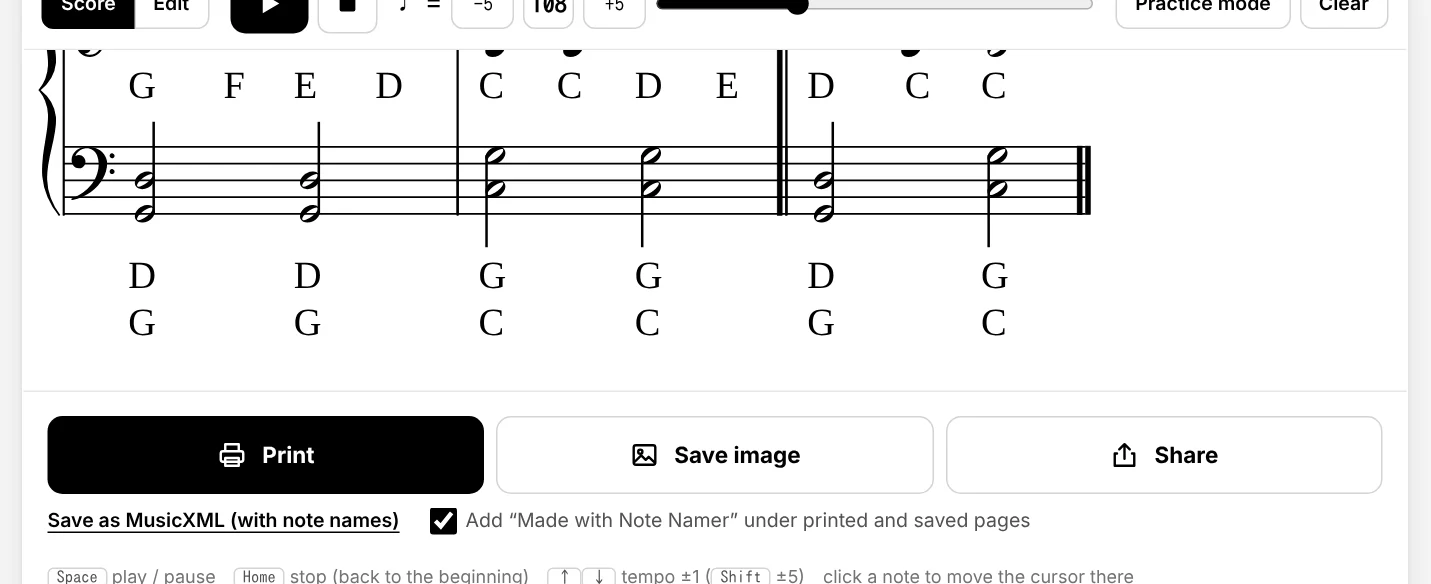
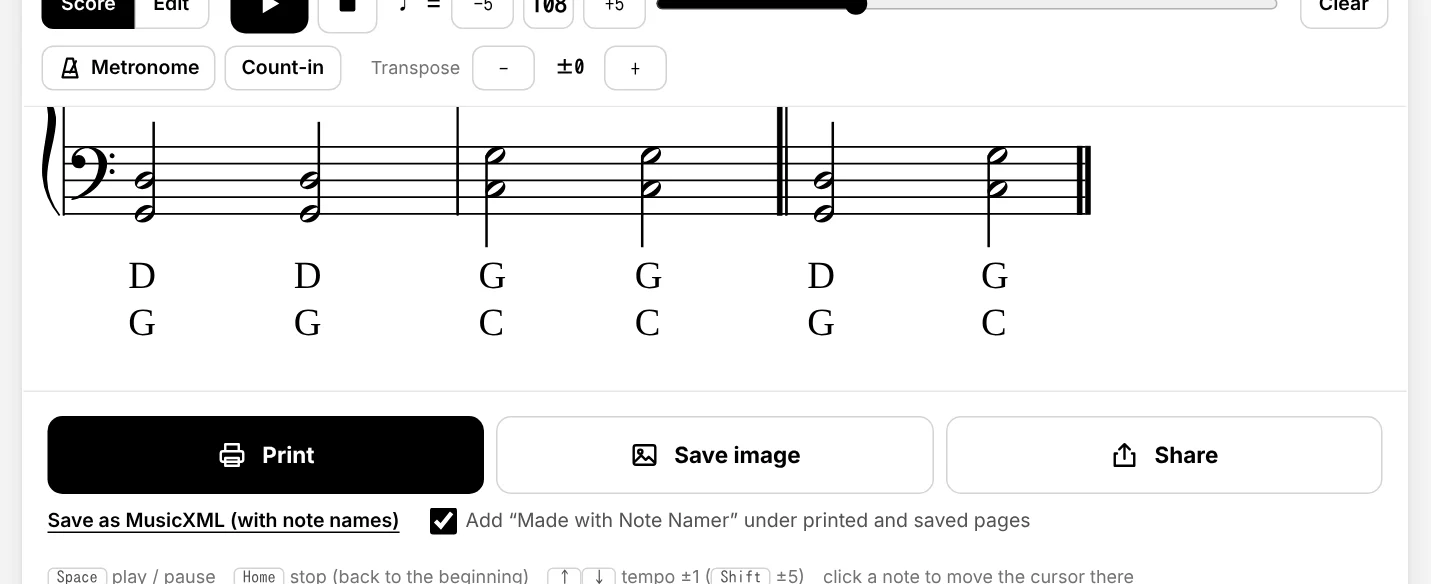
クリアを再生の段の右端に、練習モードをなくしてメトロノーム・カウントイン・移調を常に表示 (#9)
* baseline-status: Cloudflare の GitHub App の許可と Route を確認済みに（Route は Worker の Domains タブ）

Claude-Session: https://claude.ai/code/session_01FBcjAh2EZdUZUo7wvrFp9K

* baseline-status: 自動デプロイと本番の表示を確認済みに

Claude-Session: https://claude.ai/code/session_01FBcjAh2EZdUZUo7wvrFp9K

* スマホの印刷: フッターだけのページが出ないよう、ページを印刷できる範囲に収める。自動印刷の確認が出るときは、もう一度押してもらう

- iOS の Safari は @page の margin: 0 を使わずプリンタの余白を残すので、210×297mm の箱が収まらず、
  下端のタイトル・ページ番号の行が次のページにはみ出していたと考えられる（WebKit がないため未再現）。
  ページの SVG を幅 100% と 100vh の小さいほうに合わせ、縦横比を A4 に保つ
- ページを作るあいだにタップの有効期限が切れると、Safari が「自動的に印刷されることを許可しますか」と
  聞く。期限が切れていたら（navigator.userActivation）印刷せず「もう一度「印刷」を押して」と出し、
  作ったページを使って 2 回目ですぐ印刷する（共有・画像の保存と同じ）

Claude-Session: https://claude.ai/code/session_01FBcjAh2EZdUZUo7wvrFp9K

* iPhone の印刷: 2 回目のタップでも自動印刷の確認が出ていたので、作ったページは await を挟まずにすぐ印刷する

Safari は print() がタップの処理の中から直接（await を挟まずに）呼ばれないと、
「自動的に印刷されることを許可しますか」と聞く。#3 では 2 回目も withPages の await の後で呼んでいた。
- 作ったページがあり、編集中の変更がなければ、クリックの処理の中ですぐ印刷する
- Safari（iOS のブラウザはすべて WebKit）では、1 回目はページを作って「もう一度押して」と出すだけにする。
  ほかのブラウザは今までどおり 1 回で印刷（タップの期限が切れていたときだけ 2 回）

Claude-Session: https://claude.ai/code/session_01FBcjAh2EZdUZUo7wvrFp9K

* iPhone の印刷: 「もう一度押して」をやめ、1 回で印刷する（自動印刷の確認は「許可」で進める）

#4 の 2 回押してもらう方式は、実機の Safari では 2 回目でも「このウェブサイトから自動的に印刷する
ことは禁止されています」が出て効かなかった。「許可」を押せば印刷できるので、確認は受け入れ、
どのブラウザでも 1 回で印刷するように戻す。作ったページがあるときは await を挟まずに印刷する部分は残す。
baseline-status の 9-6 を今の状態に直した（上のメニューの記述も消した）。
[…]

diff --git a/public/notenamer/ja/index.html b/public/notenamer/ja/index.html
@@ -208,8 +208,10 @@
     .bpm-input::-webkit-outer-spin-button, .bpm-input::-webkit-inner-spin-button { -webkit-appearance: none; margin: 0; }
     .bpm-input:focus { outline: none; border-color: var(--ink); }
     .tempo input[type=range] { flex: 1; min-width: 80px; }
-    .player-sub .end { display: flex; flex-wrap: wrap; gap: 6px; margin-left: auto; }
-    .practice { display: flex; flex-wrap: wrap; gap: 10px 20px; align-items: center; padding: 10px 12px; border-bottom: 1px solid var(--line); background: var(--paper); }
+    /* Clear: at the right end of the play row. On wide screens the bar is one flex row (.player and .player-sub
+       have no box), so order puts it after the tempo, with the metronome / count-in / transpose row below */
+    .clear-btn { margin-left: auto; order: 1; }
+    .practice { display: flex; flex-wrap: wrap; gap: 6px 20px; align-items: center; flex-basis: 100%; order: 2; }
     .practice .grp { display: flex; flex-wrap: wrap; gap: 4px 6px; align-items: center; }
     .practice .lbl { font-size: 12px; color: var(--subtle); margin-right: 2px; }
     .practice .chip { height: 30px; padding: 0 10px; }
@@ -418,6 +420,7 @@
             <button type="button" class="play" id="playBtn" aria-label="Play" disabled></button>
             <button type="button" class="chip stop-btn" id="stopBtn" aria-label="停止（最初に戻る）" data-i18n-attr="aria-label:stop" disabled><svg viewBox="0 0 16 16" aria-hidden="true"><rect x="2" y="2" width="12" height="12" rx="1.5" fill="currentColor"></rect></svg></button>
           </div>
+          <button type="button" class="chip clear-btn" id="clearBtn" disabled data-i18n="clear">クリア</button>
         </div>
         <div class="player-sub">
           <div class="tempo">
@@ -427,13 +430,7 @@
             <button type="button" class="chip mono" data-bpm="5" aria-label="テンポを5上げる" data-i18n-attr="aria-label:bpm.p5">+5</button>
             <input id="bpmSlider" type="range" min="20" max="300" step="1" aria-label="テンポのスライダー" data-i18n-attr="aria-label:bpm.slider">
           </div>
-          <div class="end">
-            <button type="button" class="chip toggle" id="practiceBtn" aria-pressed="false" aria-controls="practice" disabled data-i18n="practice">練習モード</button>
-            <button type="button" class="chip" id="clearBtn" disabled data-i18n="clear">クリア</button>
-          </div>
-        </div>
-        </div>
-        <div class="practice" id="practice" hidden>
+          <div class="practice" id="practice">
           <div class="grp">
             <button type="button" class="chip toggle" id="metroBtn" aria-pressed="false"><svg viewBox="0 0 16 16" fill="none" stroke="currentColor" stroke-width="1.5" stroke-linecap="round" stroke-linejoin="round" aria-hidden="true"><path d="M6 1.8h4l3 12.4H3z"></path><path d="M8 11 12 3.5"></path><path d="M4.2 10.5h7.6"></path></svg><span data-i18n="metro">メトロノーム</span></button>
             <button type="button" class="chip toggle" id="countBtn" aria-pressed="false" data-i18n="countin">カウントイン</button>
@@ -443,6 +440,8 @@
             <span class="tr-val" id="trVal" aria-live="polite"></span>
             <button type="button" class="chip mono" id="trUp" aria-label="半音上げる" data-i18n-attr="aria-label:tr.up">+</button>
           </div>
+          </div>
+        </div>
         </div>
         <div class="warn" id="pageWarn" hidden></div>
         <div class="names-bar" id="namesBar" hidden>
@@ -537,7 +536,7 @@
         <li><b>音名</b> – すべての音符の下に音名を書きます。調号や臨時記号の ♯・♭ も反映します。楽譜の上で、書き方（ドレミ・C D E・Do Re Mi・도레미・ドイツ式・До Ре Ми、または移動ド・数字譜・Sa Re Ga）を選べます。和音は上の音から順に縦に並べ、タイでつながった後ろの音には書きません。</li>
         <li><b>聞いて確かめる</b> – ▶ を押すと、青いカーソルが五線の上を進みながら音が鳴ります。❚❚ で一時停止、■ で止めて最初に戻ります。音符をクリックするとカーソルがそこに移ります。テンポは −5／+5、数字、スライダーで変えられます。</li>
         <li><b>間違いを直す</b> – 「編集」に切り替えると、音符が四角で表示されます。上下にドラッグで音の高さ、左右で位置、右端をドラッグで長さを変え、空いている所をクリックで追加、右クリックで削除できます。「楽譜」に戻ると、直した内容で五線譜と音名が描き直されます。</li>
-        <li><b>練習モード</b> – メトロノームとカウントイン、半音ずつの移調ができます。音名も移調した高さで書きます。</li>
+        <li><b>メトロノーム・カウントイン・移調</b> – テンポの下のボタンで、メトロノームとカウントイン、半音ずつの移調ができます。音名も移調した高さで書きます。</li>
         <li><b>印刷・保存・共有</b> – 楽譜の下の「印刷」（A4 のページ）、「画像を保存」（ページごとの PNG）、「共有」（スマホの共有メニューで画像を送る）。音名入りの MusicXML も保存できます。各ページの下には小さく「Note Namer で作成」と入ります（同じ場所のチェックで外せます）。最近開いた 10 曲は「最近の楽譜」に残ります。</li></ol>
       <p class="help-more" data-i18n-html="help.more">詳しくは：<a href="/notenamer/ja/guide/" target="_blank" rel="noopener">画面つきの使い方ガイド</a>・<a href="/notenamer/ja/photo-tips/" target="_blank" rel="noopener">撮り方のコツ</a>・<a href="/notenamer/ja/fix-errors/" target="_blank" rel="noopener">読み取りミスの直し方</a>・<a href="/notenamer/ja/faq/" target="_blank" rel="noopener">よくある質問</a></p>
     </div>
@@ -612,7 +611,6 @@
           "pause": "Pause",
           "stop": "Stop (back to the beginning)",
           "metro": "Metronome",
-          "practice": "Practice mode",
           "transpose": "Transpose",
           "tr.down": "Down a semitone",
           "tr.up": "Up a semitone",
@@ -732,7 +730,7 @@
           "foot.meta": "<span>Note Namer · © 2026 ktkwmr</span>\n<a href=\"/notenamer/privacy/\" target=\"_blank\" rel=\"noopener\">Privacy policy</a>\n<a href=\"/notenamer/about/\" target=\"_blank\" rel=\"noopener\">About this site</a>\n<a href=\"https://github.com/ktkwmr/NoteNamer\" target=\"_blank\" rel=\"noopener\">Source code on GitHub</a>\n<a href=\"https://github.com/ktkwmr/NoteNamer/issues\" target=\"_blank\" rel=\"noopener\">Feedback</a>\n<a href=\"https://ktkwmr.com/\" target=\"_blank\" rel=\"noopener\">More apps by ktkwmr</a>",
           "foot.guidesTitle": "Guides",
           "foot.guides": "<li><a href=\"/notenamer/guide/\" target=\"_blank\" rel=\"noopener\">How to use Note Namer</a></li>\n<li><a href=\"/notenamer/note-name-chart/\" target=\"_blank\" rel=\"noopener\">Note name chart</a></li>\n<li><a href=\"/notenamer/reading-notes/\" target=\"_blank\" rel=\"noopener\">Reading notes on the staff</a></li>\n<li><a href=\"/notenamer/sharps-and-flats/\" target=\"_blank\" rel=\"noopener\">Sharps, flats, and key signatures</a></li>\n<li><a href=\"/notenamer/faq/\" target=\"_blank\" rel=\"noopener\">FAQ</a></li>\n<li><a href=\"/notenamer/photo-tips/\" target=\"_blank\" rel=\"noopener\">Photo tips for sheet music</a></li>\n<li><a href=\"/notenamer/fix-errors/\" target=\"_blank\" rel=\"noopener\">Fixing reading mistakes</a></li>",
-          "help.body": "<li><b>Open a score</b> – Take a photo, or choose images or PDFs (or drop them on the left panel), then press “Read the score”. Up to 12 files can be added; they are read in the listed order as one score (drag the handle to change the order). A MusicXML file opens right away. When nothing is open, a sample (Ode to Joy) is shown.</li>\n        <li><b>Wait for the reading</b> – The first time, the reading engine is downloaded (about 130 MB). Reading takes from about ten seconds to a minute per page, depending on your device.</li>\n        <li><b>Note names</b> – Every note gets its name below it, with the sharps and flats of the key signature and of the accidentals. Above the score, choose how the names are written: pitch names (ドレミ, C D E, Do Re Mi, 도레미, German, До Ре Ми) or names in the key (movable Do, 1 2 3, Sa Re Ga). Chords are named from the top note down; a note tied from the one before gets no name.</li>\n        <li><b>Listen</b> – Press ▶ to check the names by ear: a blue cursor moves along the staff. ❚❚ pauses, and ■ stops and goes back to the beginning. Click a note to move the cursor there. Change the tempo with −5 / +5, the number, or the slider.</li>\n        <li><b>Fix mistakes</b> – Switch to “Edit”. Each note is a box: drag it up or down to change the pitch, sideways to move it, drag its right edge to change the length, click an empty spot to add a note, and right-click to delete. Back in “Score”, the staff and the names are redrawn with your changes.</li>\n        <li><b>Practice mode</b> – A metronome, a count-in, and transposition by semitones. The names follow the transposition.</li>\n        <li><b>Print, save, share</b> – Under the score: Print (A4 pages), Save image (a PNG for each page), and Share (the images, through your phone's share menu). You can also save a MusicXML file with the names. A small “Made with Note Namer” line goes under each page unless you turn it off there. The last 10 scores are kept under “Recent scores”.</li>",
+          "help.body": "<li><b>Open a score</b> – Take a photo, or choose images or PDFs (or drop them on the left panel), then press “Read the score”. Up to 12 files can be added; they are read in the listed order as one score (drag the handle to change the order). A MusicXML file opens right away. When nothing is open, a sample (Ode to Joy) is shown.</li>\n        <li><b>Wait for the reading</b> – The first time, the reading engine is downloaded (about 130 MB). Reading takes from about ten seconds to a minute per page, depending on your device.</li>\n        <li><b>Note names</b> – Every note gets its name below it, with the sharps and flats of the key signature and of the accidentals. Above the score, choose how the names are written: pitch names (ドレミ, C D E, Do Re Mi, 도레미, German, До Ре Ми) or names in the key (movable Do, 1 2 3, Sa Re Ga). Chords are named from the top note down; a note tied from the one before gets no name.</li>\n        <li><b>Listen</b> – Press ▶ to check the names by ear: a blue cursor moves along the staff. ❚❚ pauses, and ■ stops and goes back to the beginning. Click a note to move the cursor there. Change the tempo with −5 / +5, the number, or the slider.</li>\n        <li><b>Fix mistakes</b> – Switch to “Edit”. Each note is a box: drag it up or down to change the pitch, sideways to move it, drag its right edge to change the length, click an empty spot to add a note, and right-click to delete. Back in “Score”, the staff and the names are redrawn with your changes.</li>\n        <li><b>Metronome, count-in, transpose</b> – The buttons under the tempo add a metronome or a count-in, and transpose by semitones. The names follow the transposition.</li>\n        <li><b>Print, save, share</b> – Under the score: Print (A4 pages), Save image (a PNG for each page), and Share (the images, through your phone's share menu). You can also save a MusicXML file with the names. A small “Made with Note Namer” line goes under each page unless you turn it off there. The last 10 scores are kept under “Recent scores”.</li>",
           "help.more": "More: <a href=\"/notenamer/guide/\" target=\"_blank\" rel=\"noopener\">guide with screenshots</a> · <a href=\"/notenamer/photo-tips/\" target=\"_blank\" rel=\"noopener\">photo tips</a> · <a href=\"/notenamer/fix-errors/\" target=\"_blank\" rel=\"noopener\">fixing mistakes</a> · <a href=\"/notenamer/faq/\" target=\"_blank\" rel=\"noopener\">FAQ</a>",
           "privacy.body": "<li><b>Your music stays on your device</b> – The photo, image, or PDF you open is read only in your browser and is never sent to a server. The photo you take with the camera is not saved. This app has no accounts, cookies, or ads.</li>\n        <li><b>Data saved in your browser</b> – Up to the last 10 scores you opened (the notes the app read, as MusicXML), with their titles, file names, tempo, and transposition, are saved in your browser's storage so you can open them again. “Clear history” removes them. The app and its reading engine are saved there too, so they work offline. You can delete them by clearing this site's data in your browser settings.</li>\n        <li><b>Server logs and page views</b> – This site is hosted on Cloudflare. Standard access logs (such as IP address, time, and the requested page or file) are kept for operation and security. Cloudflare Web Analytics counts page views without cookies (the page URL, referrer, browser information, and page load time).</li>\n        <li><b>Contact</b> – Questions and feedback: <a href=\"https://github.com/ktkwmr/NoteNamer/issues\" target=\"_blank\" rel=\"noopener\">GitHub Issues</a>.</li>\n        <li><b>Full policy</b> – See the <a href=\"/notenamer/privacy/\" target=\"_blank\" rel=\"noopener\">privacy policy</a> and <a href=\"/notenamer/about/\" target=\"_blank\" rel=\"noopener\">about this site</a>.</li>",
           "about.license": "© 2026 ktkwmr · Licensed under the <a href=\"https://github.com/ktkwmr/NoteNamer/blob/main/LICENSE\" target=\"_blank\" rel=\"noopener\">GNU AGPL v3</a> (the same as homr, the music recognition it uses) · <a href=\"/notenamer/about/\" target=\"_blank\" rel=\"noopener\">About this site</a>",
@@ -770,7 +768,6 @@
           "pause": "一時停止",
           "stop": "停止（最初に戻る）",
           "metro": "メトロノーム",
-          "practice": "練習モード",
           "transpose": "移調",
           "tr.down": "半音下げる",
           "tr.up": "半音上げる",
@@ -890,7 +887,7 @@
           "foot.meta": "<span>Note Namer · © 2026 ktkwmr</span>\n<a href=\"/notenamer/ja/privacy/\" target=\"_blank\" rel=\"noopener\">プライバシーポリシー</a>\n<a href=\"/notenamer/ja/about/\" target=\"_blank\" rel=\"noopener\">運営者情報</a>\n<a href=\"https://github.com/ktkwmr/NoteNamer\" target=\"_blank\" rel=\"noopener\">GitHub のソースコード</a>\n<a href=\"https://github.com/ktkwmr/NoteNamer/issues\" target=\"_blank\" rel=\"noopener\">ご意見・ご質問</a>\n<a href=\"https://ktkwmr.com/ja/\" target=\"_blank\" rel=\"noopener\">ktkwmr のほかのアプリ</a>",
           "foot.guidesTitle": "ガイド",
           "foot.guides": "<li><a href=\"/notenamer/ja/guide/\" target=\"_blank\" rel=\"noopener\">使い方ガイド</a></li>\n<li><a href=\"/notenamer/ja/note-name-chart/\" target=\"_blank\" rel=\"noopener\">音名の対応表</a></li>\n<li><a href=\"/notenamer/ja/reading-notes/\" target=\"_blank\" rel=\"noopener\">五線譜の音の読み方</a></li>\n<li><a href=\"/notenamer/ja/sharps-and-flats/\" target=\"_blank\" rel=\"noopener\">♯・♭と調号の読み方</a></li>\n<li><a href=\"/notenamer/ja/faq/\" target=\"_blank\" rel=\"noopener\">よくある質問</a></li>\n<li><a href=\"/notenamer/ja/photo-tips/\" target=\"_blank\" rel=\"noopener\">楽譜の撮り方のコツ</a></li>\n<li><a href=\"/notenamer/ja/fix-errors/\" target=\"_blank\" rel=\"noopener\">読み取りミスの直し方</a></li>",
-          "help.body": "<li><b>楽譜を開く</b> – 写真を撮るか、画像やPDFを選んで（左のパネルにドロップしても可）「楽譜を読み取る」を押します。ファイルは12個まで追加でき、並んだ順に1つの楽譜として読み取ります（ハンドルをドラッグすると順番を変えられます）。MusicXML はすぐに開きます。楽譜を開いていないときは、見本（歓喜の歌）を表示します。</li>\n        <li><b>読み取りを待つ</b> – 初回は読み取りエンジン（約130MB）をダウンロードします。読み取りには、端末の性能によって1ページ10秒〜1分ほどかかります。</li>\n        <li><b>音名</b> – すべての音符の下に音名を書きます。調号や臨時記号の ♯・♭ も反映します。楽譜の上で、書き方（ドレミ・C D E・Do Re Mi・도레미・ドイツ式・До Ре Ми、または移動ド・数字譜・Sa Re Ga）を選べます。和音は上の音から順に縦に並べ、タイでつながった後ろの音には書きません。</li>\n        <li><b>聞いて確かめる</b> – ▶ を押すと、青いカーソルが五線の上を進みながら音が鳴ります。❚❚ で一時停止、■ で止めて最初に戻ります。音符をクリックするとカーソルがそこに移ります。テンポは −5／+5、数字、スライダーで変えられます。</li>\n        <li><b>間違いを直す</b> – 「編集」に切り替えると、音符が四角で表示されます。上下にドラッグで音の高さ、左右で位置、右端をドラッグで長さを変え、空いている所をクリックで追加、右クリックで削除できます。「楽譜」に戻ると、直した内容で五線譜と音名が描き直されます。</li>\n        <li><b>練習モード</b> – メトロノームとカウントイン、半音ずつの移調ができます。音名も移調した高さで書きます。</li>\n        <li><b>印刷・保存・共有</b> – 楽譜の下の「印刷」（A4 のページ）、「画像を保存」（ページごとの PNG）、「共有」（スマホの共有メニューで画像を送る）。音名入りの MusicXML も保存できます。各ページの下には小さく「Note Namer で作成」と入ります（同じ場所のチェックで外せます）。最近開いた 10 曲は「最近の楽譜」に残ります。</li>",
+          "help.body": "<li><b>楽譜を開く</b> – 写真を撮るか、画像やPDFを選んで（左のパネルにドロップしても可）「楽譜を読み取る」を押します。ファイルは12個まで追加でき、並んだ順に1つの楽譜として読み取ります（ハンドルをドラッグすると順番を変えられます）。MusicXML はすぐに開きます。楽譜を開いていないときは、見本（歓喜の歌）を表示します。</li>\n        <li><b>読み取りを待つ</b> – 初回は読み取りエンジン（約130MB）をダウンロードします。読み取りには、端末の性能によって1ページ10秒〜1分ほどかかります。</li>\n        <li><b>音名</b> – すべての音符の下に音名を書きます。調号や臨時記号の ♯・♭ も反映します。楽譜の上で、書き方（ドレミ・C D E・Do Re Mi・도레미・ドイツ式・До Ре Ми、または移動ド・数字譜・Sa Re Ga）を選べます。和音は上の音から順に縦に並べ、タイでつながった後ろの音には書きません。</li>\n        <li><b>聞いて確かめる</b> – ▶ を押すと、青いカーソルが五線の上を進みながら音が鳴ります。❚❚ で一時停止、■ で止めて最初に戻ります。音符をクリックするとカーソルがそこに移ります。テンポは −5／+5、数字、スライダーで変えられます。</li>\n        <li><b>間違いを直す</b> – 「編集」に切り替えると、音符が四角で表示されます。上下にドラッグで音の高さ、左右で位置、右端をドラッグで長さを変え、空いている所をクリックで追加、右クリックで削除できます。「楽譜」に戻ると、直した内容で五線譜と音名が描き直されます。</li>\n        <li><b>メトロノーム・カウントイン・移調</b> – テンポの下のボタンで、メトロノームとカウントイン、半音ずつの移調ができます。音名も移調した高さで書きます。</li>\n        <li><b>印刷・保存・共有</b> – 楽譜の下の「印刷」（A4 のページ）、「画像を保存」（ページごとの PNG）、「共有」（スマホの共有メニューで画像を送る）。音名入りの MusicXML も保存できます。各ページの下には小さく「Note Namer で作成」と入ります（同じ場所のチェックで外せます）。最近開いた 10 曲は「最近の楽譜」に残ります。</li>",
           "help.more": "詳しくは：<a href=\"/notenamer/ja/guide/\" target=\"_blank\" rel=\"noopener\">画面つきの使い方ガイド</a>・<a href=\"/notenamer/ja/photo-tips/\" target=\"_blank\" rel=\"noopener\">撮り方のコツ</a>・<a href=\"/notenamer/ja/fix-errors/\" target=\"_blank\" rel=\"noopener\">読み取りミスの直し方</a>・<a href=\"/notenamer/ja/faq/\" target=\"_blank\" rel=\"noopener\">よくある質問</a>",
           "privacy.body": "<li><b>楽譜は端末の外に出ません</b> – 開いた写真・画像・PDFは、ブラウザの中だけで読み取り、サーバーに送ることはありません。カメラで撮った写真も保存しません。アカウント登録・Cookie・広告はありません。</li>\n        <li><b>ブラウザに保存するデータ</b> – もう一度開けるよう、最近開いた楽譜（読み取った音符のMusicXML）を最大10曲まで、タイトル・ファイル名・テンポ・移調の設定と一緒にブラウザ内に保存します。「履歴を消去」で消せます。オフラインで使えるよう、アプリ本体と読み取りエンジンも保存します。ブラウザの設定でこのサイトのデータを削除すると消えます。</li>\n        <li><b>サーバーのログと閲覧数</b> – 本サイトは Cloudflare で配信しています。運用とセキュリティのため、一般的なアクセスログ（IP アドレス・日時・アクセスしたページやファイルなど）が記録されます。Cloudflare Web Analytics で、Cookie を使わずにページの閲覧数（ページの URL・参照元・ブラウザの情報・表示速度）を集計しています。</li>\n        <li><b>お問い合わせ</b> – ご質問・ご意見は <a href=\"https://github.com/ktkwmr/NoteNamer/issues\" target=\"_blank\" rel=\"noopener\">GitHub の Issues</a> へ。</li>\n        <li><b>詳しくは</b> – <a href=\"/notenamer/ja/privacy/\" target=\"_blank\" rel=\"noopener\">プライバシーポリシー</a>と<a href=\"/notenamer/ja/about/\" target=\"_blank\" rel=\"noopener\">運営者情報</a>をご覧ください。</li>",
           "about.license": "© 2026 ktkwmr · <a href=\"https://github.com/ktkwmr/NoteNamer/blob/main/LICENSE\" target=\"_blank\" rel=\"noopener\">GNU AGPL v3</a>（使用している楽譜認識 homr と同じライセンス）· <a href=\"/notenamer/ja/about/\" target=\"_blank\" rel=\"noopener\">運営者情報</a>",
@@ -2161,7 +2158,7 @@
             const E = await importApp("editor.mjs");
             // The editor shows and plays the notes transposed (the model keeps them as written).
             // Taps on the player keep a selected measure (Play starts from it)
-            editor = E.createEditor($("editWrap"), { model: model, t: t, trackName: trackName, preview: preview, onChange: onModelChange, transpose: state.transpose || 0, keepSelectionIn: "#playerBar, #practice" });
+            editor = E.createEditor($("editWrap"), { model: model, t: t, trackName: trackName, preview: preview, onChange: onModelChange, transpose: state.transpose || 0, keepSelectionIn: "#playerBar" });
           } else editor.setTranspose(state.transpose || 0);
           editor.focus();
         } else {
@@ -2297,7 +2294,6 @@
         $("playBtn").disabled = !ready || busy; $("stopBtn").disabled = !ready || busy;
         $("clearBtn").disabled = !state.xml || !!state.sample || busy;
         ["actPrint", "actPng", "actShare", "actXml"].forEach((id) => { $(id).disabled = !state.xml || busy; });
-        $("practiceBtn").disabled = !state.xml;
         $("modeEdit").disabled = !state.xml || busy || !timeline.events.length;
         $("modeScore").setAttribute("aria-pressed", mode === "score"); $("modeEdit").setAttribute("aria-pressed", mode === "edit");
         $("playBtn").innerHTML = playing ? ICON_PAUSE : ICON_PLAY;
@@ -2327,10 +2323,6 @@
       $("stopBtn").onclick = stopToStart;
       $("metroBtn").onclick = () => { metronome = !metronome; renderPlayer(); };
       $("countBtn").onclick = () => { countIn = !countIn; renderPlayer(); };
-      $("practiceBtn").onclick = function () {
-        const open = $("practice").hidden;
-        $("practice").hidden = !open; this.setAttribute("aria-pressed", open);
-      };
       document.querySelectorAll("[data-bpm]").forEach((b) => { b.onclick = () => setBpm(state.bpm + +b.dataset.bpm); });
       $("bpmSlider").oninput = (e) => setBpm(+e.target.value);
       $("bpmInput").onchange = (e) => { const v = +e.target.value; if (v) setBpm(v); else renderTempo(); };

diff --git a/public/notenamer/index.html b/public/notenamer/index.html
@@ -206,8 +206,10 @@
     .bpm-input::-webkit-outer-spin-button, .bpm-input::-webkit-inner-spin-button { -webkit-appearance: none; margin: 0; }
     .bpm-input:focus { outline: none; border-color: var(--ink); }
     .tempo input[type=range] { flex: 1; min-width: 80px; }
-    .player-sub .end { display: flex; flex-wrap: wrap; gap: 6px; margin-left: auto; }
-    .practice { display: flex; flex-wrap: wrap; gap: 10px 20px; align-items: center; padding: 10px 12px; border-bottom: 1px solid var(--line); background: var(--paper); }
+    /* Clear: at the right end of the play row. On wide screens the bar is one flex row (.player and .player-sub
+       have no box), so order puts it after the tempo, with the metronome / count-in / transpose row below */
+    .clear-btn { margin-left: auto; order: 1; }
+    .practice { display: flex; flex-wrap: wrap; gap: 6px 20px; align-items: center; flex-basis: 100%; order: 2; }
     .practice .grp { display: flex; flex-wrap: wrap; gap: 4px 6px; align-items: center; }
     .practice .lbl { font-size: 12px; color: var(--subtle); margin-right: 2px; }
     .practice .chip { height: 30px; padding: 0 10px; }
@@ -418,6 +420,7 @@
             <button type="button" class="play" id="playBtn" aria-label="Play" disabled></button>
             <button type="button" class="chip stop-btn" id="stopBtn" aria-label="Stop" data-i18n-attr="aria-label:stop" disabled><svg viewBox="0 0 16 16" aria-hidden="true"><rect x="2" y="2" width="12" height="12" rx="1.5" fill="currentColor"></rect></svg></button>
           </div>
+          <button type="button" class="chip clear-btn" id="clearBtn" disabled data-i18n="clear">Clear</button>
         </div>
         <div class="player-sub">
           <div class="tempo">
@@ -427,13 +430,7 @@
             <button type="button" class="chip mono" data-bpm="5" aria-label="Tempo +5" data-i18n-attr="aria-label:bpm.p5">+5</button>
             <input id="bpmSlider" type="range" min="20" max="300" step="1" aria-label="Tempo slider" data-i18n-attr="aria-label:bpm.slider">
           </div>
-          <div class="end">
-            <button type="button" class="chip toggle" id="practiceBtn" aria-pressed="false" aria-controls="practice" disabled data-i18n="practice">Practice mode</button>
-            <button type="button" class="chip" id="clearBtn" disabled data-i18n="clear">Clear</button>
-          </div>
-        </div>
-        </div>
-        <div class="practice" id="practice" hidden>
+          <div class="practice" id="practice">
           <div class="grp">
             <button type="button" class="chip toggle" id="metroBtn" aria-pressed="false"><svg viewBox="0 0 16 16" fill="none" stroke="currentColor" stroke-width="1.5" stroke-linecap="round" stroke-linejoin="round" aria-hidden="true"><path d="M6 1.8h4l3 12.4H3z"></path><path d="M8 11 12 3.5"></path><path d="M4.2 10.5h7.6"></path></svg><span data-i18n="metro">Metronome</span></button>
             <button type="button" class="chip toggle" id="countBtn" aria-pressed="false" data-i18n="countin">Count-in</button>
@@ -443,6 +440,8 @@
             <span class="tr-val" id="trVal" aria-live="polite"></span>
             <button type="button" class="chip mono" id="trUp" aria-label="Up a semitone" data-i18n-attr="aria-label:tr.up">+</button>
           </div>
+          </div>
+        </div>
         </div>
         <div class="warn" id="pageWarn" hidden></div>
         <div class="names-bar" id="namesBar" hidden>
@@ -542,7 +541,7 @@
         <li><b>Play</b> – Press ▶. A blue cursor moves along the staff with the music; ❚❚ pauses, and ■ stops and goes back to the beginning. Click a note to move the cursor there; playing starts from it.</li>
         <li><b>Tempo</b> – The tempo starts at the marking found on the page (♩ = 120 when there is none). Change it with −5 / +5, the number, or the slider, even while playing.</li>
         <li><b>Fix mistakes</b> – Switch to “Edit”. Each note is a box: drag it up or down to change the pitch, sideways to move it, drag its right edge to change the length, click an empty spot to add a note, and right-click to delete. Click a measure number to add or delete measures. Back in “Score”, the staff is redrawn with your changes.</li>
-        <li><b>Practice mode</b> – Add a metronome or a count-in, and transpose by semitones.</li>
+        <li><b>Metronome, count-in, transpose</b> – The buttons under the tempo add a metronome or a count-in, and transpose by semitones. The names follow the transposition.</li>
         <li><b>Print, save, share</b> – Under the score: Print (A4 pages), Save image (a PNG for each page), and Share (the images, through your phone's share menu). You can also save a MusicXML file with the names. A small “Made with Note Namer” line goes under each page unless you turn it off there. The last 10 scores are kept under “Recent scores”.</li>
       </ol>
       <p class="help-more" data-i18n-html="help.more">More: <a href="/notenamer/guide/" target="_blank" rel="noopener">guide with screenshots</a> · <a href="/notenamer/photo-tips/" target="_blank" rel="noopener">photo tips</a> · <a href="/notenamer/fix-errors/" target="_blank" rel="noopener">fixing mistakes</a> · <a href="/notenamer/faq/" target="_blank" rel="noopener">FAQ</a></p>
@@ -620,7 +619,6 @@
           "pause": "Pause",
           "stop": "Stop (back to the beginning)",
           "metro": "Metronome",
-          "practice": "Practice mode",
           "transpose": "Transpose",
           "tr.down": "Down a semitone",
           "tr.up": "Up a semitone",
@@ -740,7 +738,7 @@
           "foot.meta": "<span>Note Namer · © 2026 ktkwmr</span>\n<a href=\"/notenamer/privacy/\" target=\"_blank\" rel=\"noopener\">Privacy policy</a>\n<a href=\"/notenamer/about/\" target=\"_blank\" rel=\"noopener\">About this site</a>\n<a href=\"https://github.com/ktkwmr/NoteNamer\" target=\"_blank\" rel=\"noopener\">Source code on GitHub</a>\n<a href=\"https://github.com/ktkwmr/NoteNamer/issues\" target=\"_blank\" rel=\"noopener\">Feedback</a>\n<a href=\"https://ktkwmr.com/\" target=\"_blank\" rel=\"noopener\">More apps by ktkwmr</a>",
           "foot.guidesTitle": "Guides",
           "foot.guides": "<li><a href=\"/notenamer/guide/\" target=\"_blank\" rel=\"noopener\">How to use Note Namer</a></li>\n<li><a href=\"/notenamer/note-name-chart/\" target=\"_blank\" rel=\"noopener\">Note name chart</a></li>\n<li><a href=\"/notenamer/reading-notes/\" target=\"_blank\" rel=\"noopener\">Reading notes on the staff</a></li>\n<li><a href=\"/notenamer/sharps-and-flats/\" target=\"_blank\" rel=\"noopener\">Sharps, flats, and key signatures</a></li>\n<li><a href=\"/notenamer/faq/\" target=\"_blank\" rel=\"noopener\">FAQ</a></li>\n<li><a href=\"/notenamer/photo-tips/\" target=\"_blank\" rel=\"noopener\">Photo tips for sheet music</a></li>\n<li><a href=\"/notenamer/fix-errors/\" target=\"_blank\" rel=\"noopener\">Fixing reading mistakes</a></li>",
-          "help.body": "<li><b>Open a score</b> – Take a photo, or choose images or PDFs (or drop them on the left panel), then press “Read the score”. Up to 12 files can be added; they are read in the listed order as one score (drag the handle to change the order). A MusicXML file opens right away. When nothing is open, a sample (Ode to Joy) is shown.</li>\n        <li><b>Wait for the reading</b> – The first time, the reading engine is downloaded (about 130 MB). Reading takes from about ten seconds to a minute per page, depending on your device.</li>\n        <li><b>Note names</b> – Every note gets its name below it, with the sharps and flats of the key signature and of the accidentals. Above the score, choose how the names are written: pitch names (ドレミ, C D E, Do Re Mi, 도레미, German, До Ре Ми) or names in the key (movable Do, 1 2 3, Sa Re Ga). Chords are named from the top note down; a note tied from the one before gets no name.</li>\n        <li><b>Listen</b> – Press ▶ to check the names by ear: a blue cursor moves along the staff. ❚❚ pauses, and ■ stops and goes back to the beginning. Click a note to move the cursor there. Change the tempo with −5 / +5, the number, or the slider.</li>\n        <li><b>Fix mistakes</b> – Switch to “Edit”. Each note is a box: drag it up or down to change the pitch, sideways to move it, drag its right edge to change the length, click an empty spot to add a note, and right-click to delete. Back in “Score”, the staff and the names are redrawn with your changes.</li>\n        <li><b>Practice mode</b> – A metronome, a count-in, and transposition by semitones. The names follow the transposition.</li>\n        <li><b>Print, save, share</b> – Under the score: Print (A4 pages), Save image (a PNG for each page), and Share (the images, through your phone's share menu). You can also save a MusicXML file with the names. A small “Made with Note Namer” line goes under each page unless you turn it off there. The last 10 scores are kept under “Recent scores”.</li>",
+          "help.body": "<li><b>Open a score</b> – Take a photo, or choose images or PDFs (or drop them on the left panel), then press “Read the score”. Up to 12 files can be added; they are read in the listed order as one score (drag the handle to change the order). A MusicXML file opens right away. When nothing is open, a sample (Ode to Joy) is shown.</li>\n        <li><b>Wait for the reading</b> – The first time, the reading engine is downloaded (about 130 MB). Reading takes from about ten seconds to a minute per page, depending on your device.</li>\n        <li><b>Note names</b> – Every note gets its name below it, with the sharps and flats of the key signature and of the accidentals. Above the score, choose how the names are written: pitch names (ドレミ, C D E, Do Re Mi, 도레미, German, До Ре Ми) or names in the key (movable Do, 1 2 3, Sa Re Ga). Chords are named from the top note down; a note tied from the one before gets no name.</li>\n        <li><b>Listen</b> – Press ▶ to check the names by ear: a blue cursor moves along the staff. ❚❚ pauses, and ■ stops and goes back to the beginning. Click a note to move the cursor there. Change the tempo with −5 / +5, the number, or the slider.</li>\n        <li><b>Fix mistakes</b> – Switch to “Edit”. Each note is a box: drag it up or down to change the pitch, sideways to move it, drag its right edge to change the length, click an empty spot to add a note, and right-click to delete. Back in “Score”, the staff and the names are redrawn with your changes.</li>\n        <li><b>Metronome, count-in, transpose</b> – The buttons under the tempo add a metronome or a count-in, and transpose by semitones. The names follow the transposition.</li>\n        <li><b>Print, save, share</b> – Under the score: Print (A4 pages), Save image (a PNG for each page), and Share (the images, through your phone's share menu). You can also save a MusicXML file with the names. A small “Made with Note Namer” line goes under each page unless you turn it off there. The last 10 scores are kept under “Recent scores”.</li>",
           "help.more": "More: <a href=\"/notenamer/guide/\" target=\"_blank\" rel=\"noopener\">guide with screenshots</a> · <a href=\"/notenamer/photo-tips/\" target=\"_blank\" rel=\"noopener\">photo tips</a> · <a href=\"/notenamer/fix-errors/\" target=\"_blank\" rel=\"noopener\">fixing mistakes</a> · <a href=\"/notenamer/faq/\" target=\"_blank\" rel=\"noopener\">FAQ</a>",
           "privacy.body": "<li><b>Your music stays on your device</b> – The photo, image, or PDF you open is read only in your browser and is never sent to a server. The photo you take with the camera is not saved. This app has no accounts, cookies, or ads.</li>\n        <li><b>Data saved in your browser</b> – Up to the last 10 scores you opened (the notes the app read, as MusicXML), with their titles, file names, tempo, and transposition, are saved in your browser's storage so you can open them again. “Clear history” removes them. The app and its reading engine are saved there too, so they work offline. You can delete them by clearing this site's data in your browser settings.</li>\n        <li><b>Server logs and page views</b> – This site is hosted on Cloudflare. Standard access logs (such as IP address, time, and the requested page or file) are kept for operation and security. Cloudflare Web Analytics counts page views without cookies (the page URL, referrer, browser information, and page load time).</li>\n        <li><b>Contact</b> – Questions and feedback: <a href=\"https://github.com/ktkwmr/NoteNamer/issues\" target=\"_blank\" rel=\"noopener\">GitHub Issues</a>.</li>\n        <li><b>Full policy</b> – See the <a href=\"/notenamer/privacy/\" target=\"_blank\" rel=\"noopener\">privacy policy</a> and <a href=\"/notenamer/about/\" target=\"_blank\" rel=\"noopener\">about this site</a>.</li>",
           "about.license": "© 2026 ktkwmr · Licensed under the <a href=\"https://github.com/ktkwmr/NoteNamer/blob/main/LICENSE\" target=\"_blank\" rel=\"noopener\">GNU AGPL v3</a> (the same as homr, the music recognition it uses) · <a href=\"/notenamer/about/\" target=\"_blank\" rel=\"noopener\">About this site</a>",
@@ -778,7 +776,6 @@
           "pause": "一時停止",
           "stop": "停止（最初に戻る）",
           "metro": "メトロノーム",
-          "practice": "練習モード",
           "transpose": "移調",
           "tr.down": "半音下げる",
           "tr.up": "半音上げる",
@@ -898,7 +895,7 @@
           "foot.meta": "<span>Note Namer · © 2026 ktkwmr</span>\n<a href=\"/notenamer/ja/privacy/\" target=\"_blank\" rel=\"noopener\">プライバシーポリシー</a>\n<a href=\"/notenamer/ja/about/\" target=\"_blank\" rel=\"noopener\">運営者情報</a>\n<a href=\"https://github.com/ktkwmr/NoteNamer\" target=\"_blank\" rel=\"noopener\">GitHub のソースコード</a>\n<a href=\"https://github.com/ktkwmr/NoteNamer/issues\" target=\"_blank\" rel=\"noopener\">ご意見・ご質問</a>\n<a href=\"https://ktkwmr.com/ja/\" target=\"_blank\" rel=\"noopener\">ktkwmr のほかのアプリ</a>",
           "foot.guidesTitle": "ガイド",
           "foot.guides": "<li><a href=\"/notenamer/ja/guide/\" target=\"_blank\" rel=\"noopener\">使い方ガイド</a></li>\n<li><a href=\"/notenamer/ja/note-name-chart/\" target=\"_blank\" rel=\"noopener\">音名の対応表</a></li>\n<li><a href=\"/notenamer/ja/reading-notes/\" target=\"_blank\" rel=\"noopener\">五線譜の音の読み方</a></li>\n<li><a href=\"/notenamer/ja/sharps-and-flats/\" target=\"_blank\" rel=\"noopener\">♯・♭と調号の読み方</a></li>\n<li><a href=\"/notenamer/ja/faq/\" target=\"_blank\" rel=\"noopener\">よくある質問</a></li>\n<li><a href=\"/notenamer/ja/photo-tips/\" target=\"_blank\" rel=\"noopener\">楽譜の撮り方のコツ</a></li>\n<li><a href=\"/notenamer/ja/fix-errors/\" target=\"_blank\" rel=\"noopener\">読み取りミスの直し方</a></li>",
-          "help.body": "<li><b>楽譜を開く</b> – 写真を撮るか、画像やPDFを選んで（左のパネルにドロップしても可）「楽譜を読み取る」を押します。ファイルは12個まで追加でき、並んだ順に1つの楽譜として読み取ります（ハンドルをドラッグすると順番を変えられます）。MusicXML はすぐに開きます。楽譜を開いていないときは、見本（歓喜の歌）を表示します。</li>\n        <li><b>読み取りを待つ</b> – 初回は読み取りエンジン（約130MB）をダウンロードします。読み取りには、端末の性能によって1ページ10秒〜1分ほどかかります。</li>\n        <li><b>音名</b> – すべての音符の下に音名を書きます。調号や臨時記号の ♯・♭ も反映します。楽譜の上で、書き方（ドレミ・C D E・Do Re Mi・도레미・ドイツ式・До Ре Ми、または移動ド・数字譜・Sa Re Ga）を選べます。和音は上の音から順に縦に並べ、タイでつながった後ろの音には書きません。</li>\n        <li><b>聞いて確かめる</b> – ▶ を押すと、青いカーソルが五線の上を進みながら音が鳴ります。❚❚ で一時停止、■ で止めて最初に戻ります。音符をクリックするとカーソルがそこに移ります。テンポは −5／+5、数字、スライダーで変えられます。</li>\n        <li><b>間違いを直す</b> – 「編集」に切り替えると、音符が四角で表示されます。上下にドラッグで音の高さ、左右で位置、右端をドラッグで長さを変え、空いている所をクリックで追加、右クリックで削除できます。「楽譜」に戻ると、直した内容で五線譜と音名が描き直されます。</li>\n        <li><b>練習モード</b> – メトロノームとカウントイン、半音ずつの移調ができます。音名も移調した高さで書きます。</li>\n        <li><b>印刷・保存・共有</b> – 楽譜の下の「印刷」（A4 のページ）、「画像を保存」（ページごとの PNG）、「共有」（スマホの共有メニューで画像を送る）。音名入りの MusicXML も保存できます。各ページの下には小さく「Note Namer で作成」と入ります（同じ場所のチェックで外せます）。最近開いた 10 曲は「最近の楽譜」に残ります。</li>",
+          "help.body": "<li><b>楽譜を開く</b> – 写真を撮るか、画像やPDFを選んで（左のパネルにドロップしても可）「楽譜を読み取る」を押します。ファイルは12個まで追加でき、並んだ順に1つの楽譜として読み取ります（ハンドルをドラッグすると順番を変えられます）。MusicXML はすぐに開きます。楽譜を開いていないときは、見本（歓喜の歌）を表示します。</li>\n        <li><b>読み取りを待つ</b> – 初回は読み取りエンジン（約130MB）をダウンロードします。読み取りには、端末の性能によって1ページ10秒〜1分ほどかかります。</li>\n        <li><b>音名</b> – すべての音符の下に音名を書きます。調号や臨時記号の ♯・♭ も反映します。楽譜の上で、書き方（ドレミ・C D E・Do Re Mi・도레미・ドイツ式・До Ре Ми、または移動ド・数字譜・Sa Re Ga）を選べます。和音は上の音から順に縦に並べ、タイでつながった後ろの音には書きません。</li>\n        <li><b>聞いて確かめる</b> – ▶ を押すと、青いカーソルが五線の上を進みながら音が鳴ります。❚❚ で一時停止、■ で止めて最初に戻ります。音符をクリックするとカーソルがそこに移ります。テンポは −5／+5、数字、スライダーで変えられます。</li>\n        <li><b>間違いを直す</b> – 「編集」に切り替えると、音符が四角で表示されます。上下にドラッグで音の高さ、左右で位置、右端をドラッグで長さを変え、空いている所をクリックで追加、右クリックで削除できます。「楽譜」に戻ると、直した内容で五線譜と音名が描き直されます。</li>\n        <li><b>メトロノーム・カウントイン・移調</b> – テンポの下のボタンで、メトロノームとカウントイン、半音ずつの移調ができます。音名も移調した高さで書きます。</li>\n        <li><b>印刷・保存・共有</b> – 楽譜の下の「印刷」（A4 のページ）、「画像を保存」（ページごとの PNG）、「共有」（スマホの共有メニューで画像を送る）。音名入りの MusicXML も保存できます。各ページの下には小さく「Note Namer で作成」と入ります（同じ場所のチェックで外せます）。最近開いた 10 曲は「最近の楽譜」に残ります。</li>",
           "help.more": "詳しくは：<a href=\"/notenamer/ja/guide/\" target=\"_blank\" rel=\"noopener\">画面つきの使い方ガイド</a>・<a href=\"/notenamer/ja/photo-tips/\" target=\"_blank\" rel=\"noopener\">撮り方のコツ</a>・<a href=\"/notenamer/ja/fix-errors/\" target=\"_blank\" rel=\"noopener\">読み取りミスの直し方</a>・<a href=\"/notenamer/ja/faq/\" target=\"_blank\" rel=\"noopener\">よくある質問</a>",
           "privacy.body": "<li><b>楽譜は端末の外に出ません</b> – 開いた写真・画像・PDFは、ブラウザの中だけで読み取り、サーバーに送ることはありません。カメラで撮った写真も保存しません。アカウント登録・Cookie・広告はありません。</li>\n        <li><b>ブラウザに保存するデータ</b> – もう一度開けるよう、最近開いた楽譜（読み取った音符のMusicXML）を最大10曲まで、タイトル・ファイル名・テンポ・移調の設定と一緒にブラウザ内に保存します。「履歴を消去」で消せます。オフラインで使えるよう、アプリ本体と読み取りエンジンも保存します。ブラウザの設定でこのサイトのデータを削除すると消えます。</li>\n        <li><b>サーバーのログと閲覧数</b> – 本サイトは Cloudflare で配信しています。運用とセキュリティのため、一般的なアクセスログ（IP アドレス・日時・アクセスしたページやファイルなど）が記録されます。Cloudflare Web Analytics で、Cookie を使わずにページの閲覧数（ページの URL・参照元・ブラウザの情報・表示速度）を集計しています。</li>\n        <li><b>お問い合わせ</b> – ご質問・ご意見は <a href=\"https://github.com/ktkwmr/NoteNamer/issues\" target=\"_blank\" rel=\"noopener\">GitHub の Issues</a> へ。</li>\n        <li><b>詳しくは</b> – <a href=\"/notenamer/ja/privacy/\" target=\"_blank\" rel=\"noopener\">プライバシーポリシー</a>と<a href=\"/notenamer/ja/about/\" target=\"_blank\" rel=\"noopener\">運営者情報</a>をご覧ください。</li>",
           "about.license": "© 2026 ktkwmr · <a href=\"https://github.com/ktkwmr/NoteNamer/blob/main/LICENSE\" target=\"_blank\" rel=\"noopener\">GNU AGPL v3</a>（使用している楽譜認識 homr と同じライセンス）· <a href=\"/notenamer/ja/about/\" target=\"_blank\" rel=\"noopener\">運営者情報</a>",
@@ -2169,7 +2166,7 @@
             const E = await importApp("editor.mjs");
             // The editor shows and plays the notes transposed (the model keeps them as written).
             // Taps on the player keep a selected measure (Play starts from it)
-            editor = E.createEditor($("editWrap"), { model: model, t: t, trackName: trackName, preview: preview, onChange: onModelChange, transpose: state.transpose || 0, keepSelectionIn: "#playerBar, #practice" });
+            editor = E.createEditor($("editWrap"), { model: model, t: t, trackName: trackName, preview: preview, onChange: onModelChange, transpose: state.transpose || 0, keepSelectionIn: "#playerBar" });
           } else editor.setTranspose(state.transpose || 0);
           editor.focus();
         } else {
@@ -2305,7 +2302,6 @@
         $("playBtn").disabled = !ready || busy; $("stopBtn").disabled = !ready || busy;
         $("clearBtn").disabled = !state.xml || !!state.sample || busy;
         ["actPrint", "actPng", "actShare", "actXml"].forEach((id) => { $(id).disabled = !state.xml || busy; });
-        $("practiceBtn").disabled = !state.xml;
         $("modeEdit").disabled = !state.xml || busy || !timeline.events.length;
         $("modeScore").setAttribute("aria-pressed", mode === "score"); $("modeEdit").setAttribute("aria-pressed", mode === "edit");
         $("playBtn").innerHTML = playing ? ICON_PAUSE : ICON_PLAY;
@@ -2335,10 +2331,6 @@
       $("stopBtn").onclick = stopToStart;
       $("metroBtn").onclick = () => { metronome = !metronome; renderPlayer(); };
       $("countBtn").onclick = () => { countIn = !countIn; renderPlayer(); };
-      $("practiceBtn").onclick = function () {
-        const open = $("practice").hidden;
-        $("practice").hidden = !open; this.setAttribute("aria-pressed", open);
-      };
       document.querySelectorAll("[data-bpm]").forEach((b) => { b.onclick = () => setBpm(state.bpm + +b.dataset.bpm); });
       $("bpmSlider").oninput = (e) => setBpm(+e.target.value);
       $("bpmInput").onchange = (e) => { const v = +e.target.value; if (v) setBpm(v); else renderTempo(); };

diff --git a/public/notenamer/ja/guide/index.html b/public/notenamer/ja/guide/index.html
@@ -266,10 +266,10 @@
 
 <h2 id="transpose">7. 移調する</h2>
 <figure class="shot">
-  <a href="/notenamer/guide/img/app-practice-ja.webp"><img src="/notenamer/guide/img/app-practice-ja.webp" width="1280" height="800" alt="練習モードで移調 +2 にした画面。調号が ♯ 2 つになり、音名にファ♯ やド♯ がある" loading="lazy" decoding="async"></a>
+  <a href="/notenamer/guide/img/app-practice-ja.webp"><img src="/notenamer/guide/img/app-practice-ja.webp" width="1280" height="800" alt="移調 +2 にした画面。調号が ♯ 2 つになり、音名にファ♯ やド♯ がある" loading="lazy" decoding="async"></a>
   <figcaption>半音 2 つ上に移調したところ。音名も新しい調に合わせて変わります。</figcaption>
 </figure>
-<p><b>練習モード</b>を押し、<b>移調</b>の −／+ で半音ずつ（上下 1 オクターブまで）移調できます。調号も変わり、音名は移調した高さで書き直します。練習モードにはメトロノームとカウントインもあります。</p>
+<p>テンポの下の<b>移調</b>の −／+ で、半音ずつ（上下 1 オクターブまで）移調できます。調号も変わり、音名は移調した高さで書き直します。隣には<b>メトロノーム</b>と<b>カウントイン</b>もあります。</p>
 
 <h2 id="print">8. 印刷・画像で保存・共有</h2>
 <figure class="shot">

diff --git a/public/notenamer/guide/index.html b/public/notenamer/guide/index.html
@@ -266,10 +266,10 @@
 
 <h2 id="transpose">7. Transpose</h2>
 <figure class="shot">
-  <a href="/notenamer/guide/img/app-practice-en.webp"><img src="/notenamer/guide/img/app-practice-en.webp" width="1280" height="800" alt="Practice mode with Transpose +2: the key signature has two sharps and the names include F♯ and C♯" loading="lazy" decoding="async"></a>
+  <a href="/notenamer/guide/img/app-practice-en.webp"><img src="/notenamer/guide/img/app-practice-en.webp" width="1280" height="800" alt="Transpose +2: the key signature has two sharps and the names include F♯ and C♯" loading="lazy" decoding="async"></a>
   <figcaption>Transposed up 2 semitones: the names follow the new key.</figcaption>
 </figure>
-<p>Press <b>Practice mode</b>, then − and + next to <b>Transpose</b> to move the music down or up a semitone at a time (up to an octave). The key signature changes, and the names are written for the new pitches. Practice mode also has a metronome and a count-in.</p>
+<p>Press − and + next to <b>Transpose</b>, under the tempo, to move the music down or up a semitone at a time (up to an octave). The key signature changes, and the names are written for the new pitches. Next to it are <b>Metronome</b> and <b>Count-in</b>.</p>
 
 <h2 id="print">8. Print, save as images, share</h2>
 <figure class="shot">
